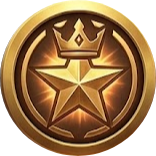
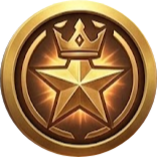
rendering the achievement badges
the achievement badges are now visible in the profile page
   achievemnt section

diff --git a/frontend/src/pages/Profile.ts b/frontend/src/pages/Profile.ts
@@ -51,10 +51,9 @@ export async function renderProfile()
 		const achievementsHtml = userData.achievements.map(achievement => {
 			return `
 			<div class="bg-[#151638] p-4 rounded-xl border border-gray-700 flex items-center gap-3 hover:border-purple-500 transition-colors">
-				<div class="text-2xl">🏆</div>
-				<div>
+			<img src="../../public/imgs/${achievement.code}.png" alt="${achievement.title}" class="w-15 h-15 object-contain">
+			<div>
 				<h4 class="font-bold text-sm text-white">${achievement.title}</h4>
-				<p class="text-xs text-gray-400">Code: ${achievement.code}</p>
 				</div>
 			</div>
 			`;
